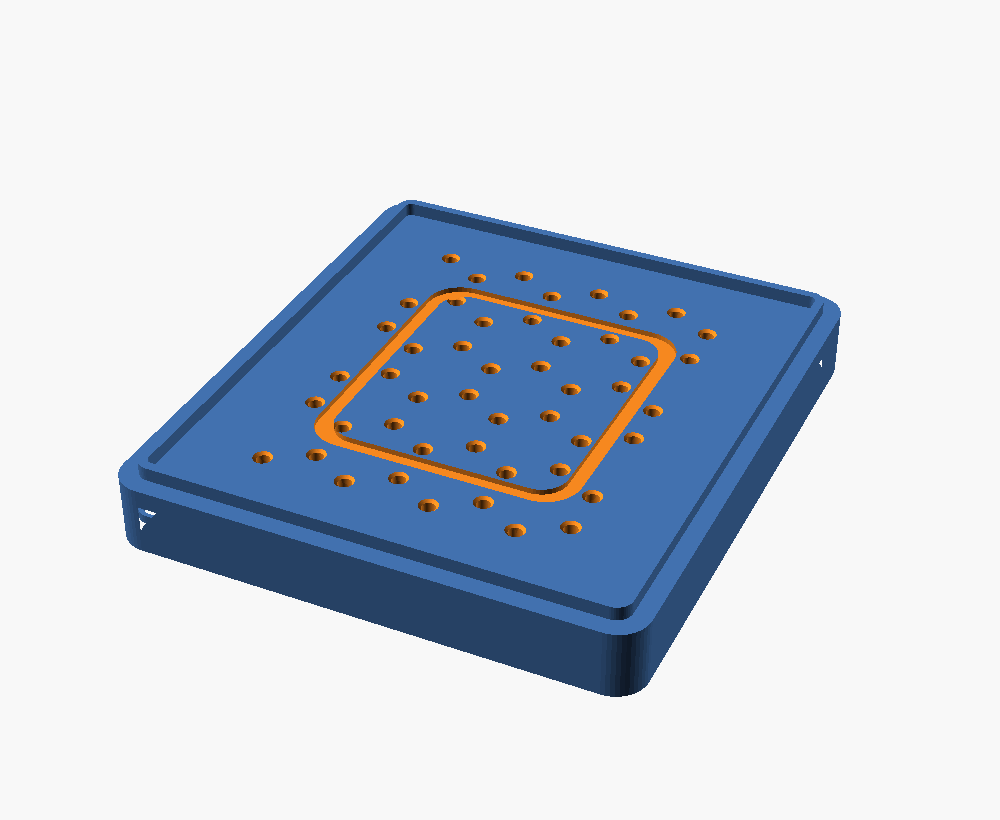
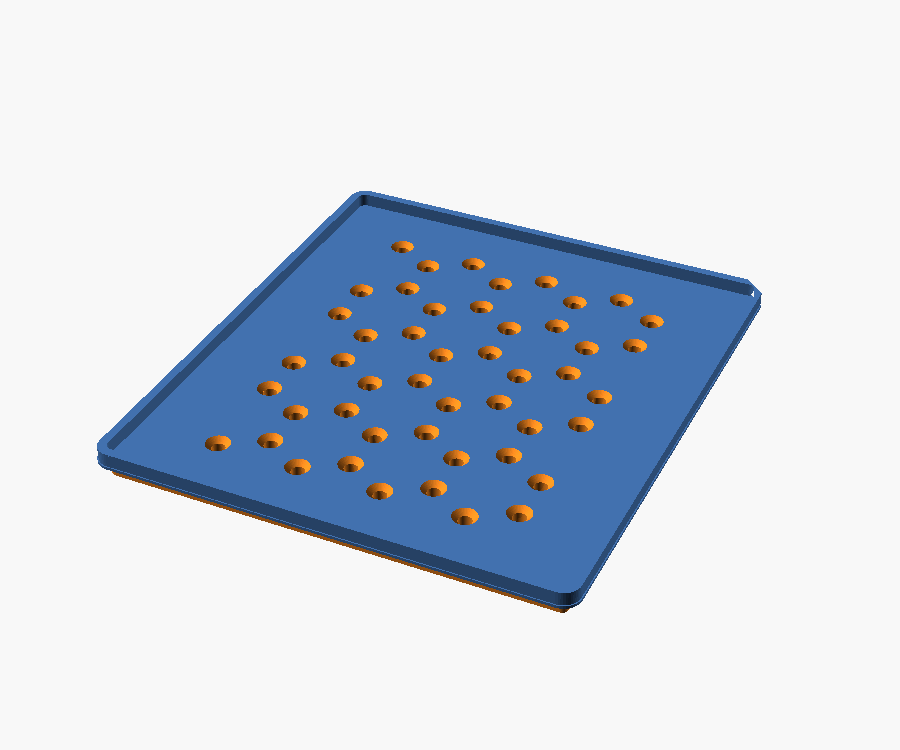
current v5: skirtless stacklid + engraved IDs + lighter frame + retention nubs
Design-review pass (4 changes, none increase size):
1. stacklid skirtless flat drain-plate -> prints support-free, ~68->47 cm3,
   no skirt overhang; top cap lid keeps the snap
2. engraved A-E / 1-7 IDs + write-on label recess (address all 100 vials)
3. frame trimmed (rim 3.0->2.5, floor 2.0->1.6): tray 112->99 cm3, ~1mm smaller/side
4. retention nubs at cup mouths (~0.2mm) so vials don't fall from a lifted tray

All parts render manifold; fit_audit + checks pass.

Changed region(s): [[0.0933, 0.2453, 0.84, 0.8587], [0.2178, 0.4293, 0.2489, 0.46], [0.1867, 0.46, 0.2178, 0.4907]]

diff --git a/current/README.md b/current/README.md
@@ -1,11 +1,24 @@
-# Lidded-stack variant (v4-lidded) — modular TEST VERSION
+# Lidded-stack variant (v5) — modular, design-reviewed
 
-A separate, opt-in variant of the [sleeveless tray tower](../README.md). Instead of
-the trays interlocking **directly** (tongue→groove, one lid on top), **every tray
-gets its own identical lid** (`stacklid`) and the tower stacks
-`tray → lid → tray → lid → …`. Each layer is a self-contained, snap-closed,
-liftable module — and because every lid is the same, the tower is **fully modular:
-stack as many layers as you like and add more any time.**
+A separate, opt-in variant of the [sleeveless tray tower](../README.md). **Every tray
+gets its own identical lid** (`stacklid`) and the tower stacks `tray → lid → tray → …`
+— **fully modular: stack as many layers as you like, add more any time.**
+
+## v5 improvements (4 design-review changes; none make it bigger)
+1. **Stacklid is now skirtless** — a flat drain-plate that rests on its tray (underside
+   groove over the tray's top tongue) and presents a tongue up for the next tray. It now
+   **prints plate-on-bed support-free** (the old skirt+tongue couldn't), is lighter
+   (~68→47 cm³), and removes the skirt overhang (middle layers = tray footprint).
+   The **top cap lid keeps the skirt + snap** to secure the tower.
+2. **Engraved IDs** — column letters **A–E** (long face) + row numbers **1–7** (short
+   face) so any of 100 vials has an address, plus a **write-on label recess** for layer/contents.
+3. **Lighter frame** — rim trimmed 3.0→2.5 mm + floor 2.0→1.6 mm (tray 112→99 cm³; also
+   ~1 mm smaller per side).
+4. **Retention nubs** — 3 tiny nubs at each cup mouth (~0.2 mm interference) so a vial
+   clicks in and **won't fall out of a tray you lift off the stack**.
+
+Footprint now ~**106 × 119 mm**; 3-layer tower ~440 cm³ (~560 g PETG). All parts render
+manifold; `fit_audit.py` + `checks_lidded.py` pass.
 
 | Tower (5 layers — stack any number) | Stacklid (drain holes + register tongue) |
 |---|---|